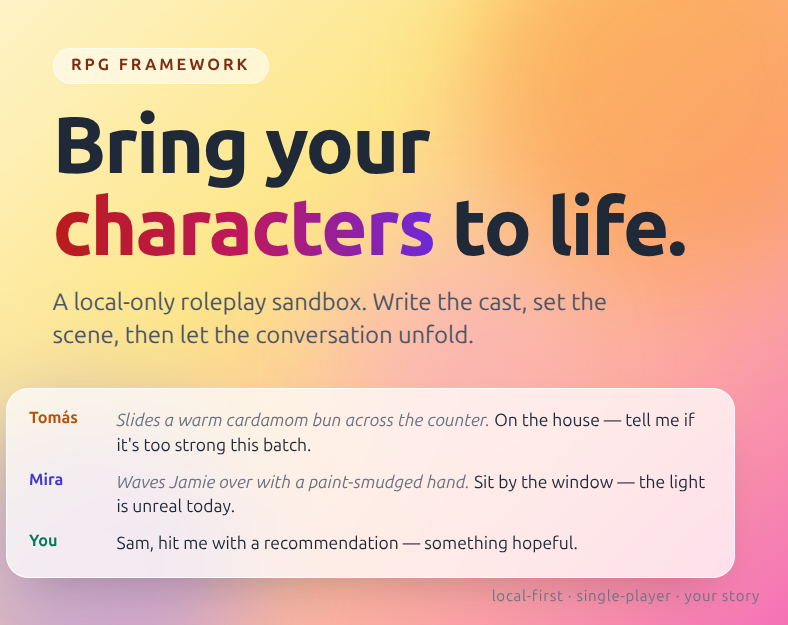
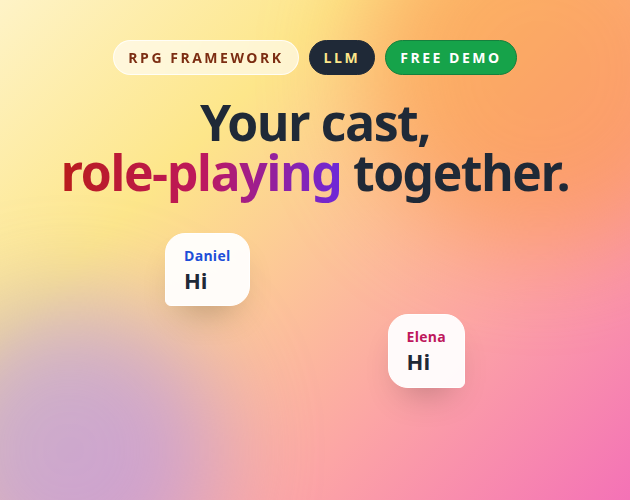
Redesign itch.io cover: emphasize multi-character LLM roleplay
Add LLM and Free Demo badges, swap dialog example to a brief boy-meets-girl 'Hi' / 'Hi' exchange, and bump font sizes for thumbnail readability.

diff --git a/itchio/cover.html b/itchio/cover.html
@@ -6,54 +6,76 @@
     <style>
       :root { color-scheme: light; }
       html, body { margin: 0; padding: 0; }
+      html {
+        background: linear-gradient(135deg, #fef3c7 0%, #fde68a 30%, #fca5a5 70%, #f472b6 100%);
+      }
       body {
         width: 630px;
         height: 500px;
         font-family: ui-sans-serif, -apple-system, "Segoe UI", system-ui, sans-serif;
-        background: linear-gradient(135deg, #fef3c7 0%, #fde68a 35%, #fca5a5 75%, #f472b6 100%);
+        background: linear-gradient(135deg, #fef3c7 0%, #fde68a 30%, #fca5a5 70%, #f472b6 100%);
         position: relative;
         overflow: hidden;
-      }
-      .stage {
-        position: absolute;
-        inset: 0;
-        padding: 38px 42px;
-        display: flex;
-        flex-direction: column;
-        justify-content: space-between;
       }
       .blob {
         position: absolute;
         border-radius: 50%;
-        filter: blur(40px);
+        filter: blur(50px);
         opacity: 0.55;
         pointer-events: none;
       }
-      .b1 { width: 320px; height: 320px; background: #fb923c; top: -90px; right: -70px; }
-      .b2 { width: 260px; height: 260px; background: #a78bfa; bottom: -80px; left: -60px; }
-      .b3 { width: 180px; height: 180px; background: #f9a8d4; top: 200px; right: 180px; opacity: 0.4; }
+      .b1 { width: 360px; height: 360px; background: #fb923c; top: -110px; right: -90px; }
+      .b2 { width: 300px; height: 300px; background: #a78bfa; bottom: -100px; left: -80px; }
 
-      header { z-index: 2; }
+      .stage {
+        position: absolute;
+        inset: 0;
+        padding: 40px 32px;
+        display: flex;
+        flex-direction: column;
+        align-items: center;
+        justify-content: flex-start;
+        text-align: center;
+        z-index: 2;
+      }
+
+      .topbar {
+        display: flex;
+        align-items: center;
+        justify-content: center;
+        gap: 10px;
+        margin-bottom: 22px;
+      }
       .badge {
-        display: inline-block;
-        padding: 6px 14px;
-        background: rgba(255,255,255,0.55);
+        padding: 7px 14px;
+        background: rgba(255,255,255,0.6);
         backdrop-filter: blur(8px);
-        border: 1px solid rgba(255,255,255,0.7);
+        border: 1px solid rgba(255,255,255,0.8);
         color: #7c2d12;
         border-radius: 999px;
-        font-size: 13px;
+        font-size: 14px;
         letter-spacing: 0.18em;
         text-transform: uppercase;
-        font-weight: 700;
-      }
-      h1 {
-        margin: 18px 0 0 0;
-        font-size: 64px;
         font-weight: 800;
-        line-height: 1.02;
+      }
+      .badge.llm {
+        background: #1f2937;
+        color: #fde68a;
+        border-color: #1f2937;
+      }
+      .badge.free {
+        background: #16a34a;
+        color: #fff;
+        border-color: #15803d;
+      }
+
+      h1 {
+        margin: 0;
+        font-size: 50px;
+        font-weight: 900;
+        line-height: 1.0;
         color: #1f2937;
-        letter-spacing: -0.025em;
+        letter-spacing: -0.03em;
       }
       h1 em {
         font-style: normal;
@@ -62,81 +84,62 @@
         background-clip: text;
         color: transparent;
       }
-      p.tag {
-        margin: 14px 0 0 0;
-        font-size: 19px;
-        color: #4b5563;
-        max-width: 480px;
-        line-height: 1.4;
-      }
 
-      .chat {
-        align-self: flex-end;
-        position: relative;
-        z-index: 2;
+      .scene {
+        margin-top: 36px;
         width: 100%;
-        max-width: 560px;
-        background: rgba(255,255,255,0.75);
-        backdrop-filter: blur(14px);
-        border: 1px solid rgba(255,255,255,0.9);
-        border-radius: 18px;
-        padding: 16px 18px;
-        box-shadow: 0 20px 40px -20px rgba(0,0,0,0.25);
-        display: grid;
-        gap: 10px;
+        max-width: 300px;
+        display: flex;
+        flex-direction: column;
+        gap: 8px;
       }
-      .row { display: flex; gap: 10px; align-items: flex-start; }
-      .who {
-        flex-shrink: 0;
+      .bubble {
+        background: rgba(255,255,255,0.94);
+        border: 1px solid rgba(255,255,255,1);
+        border-radius: 20px;
+        padding: 12px 18px;
+        box-shadow: 0 18px 36px -16px rgba(0,0,0,0.3);
+        max-width: 220px;
+        text-align: left;
+      }
+      .bubble .who {
+        font-weight: 800;
+        font-size: 14px;
+        margin-bottom: 2px;
+        letter-spacing: 0.02em;
+      }
+      .bubble .msg {
+        color: #1f2937;
+        font-size: 22px;
+        line-height: 1.2;
         font-weight: 700;
-        font-size: 13px;
-        color: #be185d;
-        width: 60px;
       }
-      .who.b { color: #b45309; }
-      .who.c { color: #4338ca; }
-      .who.you { color: #047857; }
-      .msg { color: #1f2937; font-size: 14px; line-height: 1.4; }
-      .msg em { color: #6b7280; font-style: italic; }
-
-      footer {
-        position: absolute;
-        bottom: 16px;
-        right: 22px;
-        font-size: 12px;
-        color: #6b7280;
-        letter-spacing: 0.05em;
-        z-index: 2;
-      }
+      .bubble.him { align-self: flex-start; border-bottom-left-radius: 6px; }
+      .bubble.him .who { color: #1d4ed8; }
+      .bubble.her { align-self: flex-end; border-bottom-right-radius: 6px; }
+      .bubble.her .who { color: #be185d; }
     </style>
   </head>
   <body>
     <div class="blob b1"></div>
     <div class="blob b2"></div>
-    <div class="blob b3"></div>
     <div class="stage">
-      <header>
+      <div class="topbar">
         <span class="badge">RPG Framework</span>
-        <h1>Bring your<br/><em>characters</em> to life.</h1>
-        <p class="tag">A local-only roleplay sandbox. Write the cast, set the scene, then let the conversation unfold.</p>
-      </header>
-
-      <div class="chat">
-        <div class="row">
-          <div class="who b">Tomás</div>
-          <div class="msg"><em>Slides a warm cardamom bun across the counter.</em> On the house — tell me if it's too strong this batch.</div>
+        <span class="badge llm">LLM</span>
+        <span class="badge free">Free Demo</span>
+      </div>
+      <h1>Your cast,<br/><em>role-playing</em> together.</h1>
+      <div class="scene">
+        <div class="bubble him">
+          <div class="who">Daniel</div>
+          <div class="msg">Hi</div>
         </div>
-        <div class="row">
-          <div class="who c">Mira</div>
-          <div class="msg"><em>Waves Jamie over with a paint-smudged hand.</em> Sit by the window — the light is unreal today.</div>
-        </div>
-        <div class="row">
-          <div class="who you">You</div>
-          <div class="msg">Sam, hit me with a recommendation — something hopeful.</div>
+        <div class="bubble her">
+          <div class="who">Elena</div>
+          <div class="msg">Hi</div>
         </div>
       </div>
-
-      <footer>local-first · single-player · your story</footer>
     </div>
   </body>
 </html>
